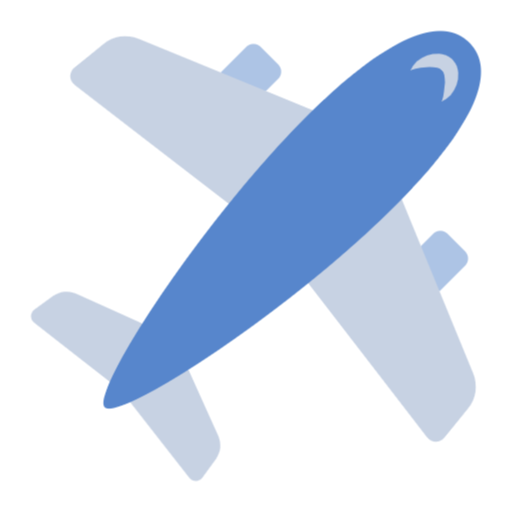
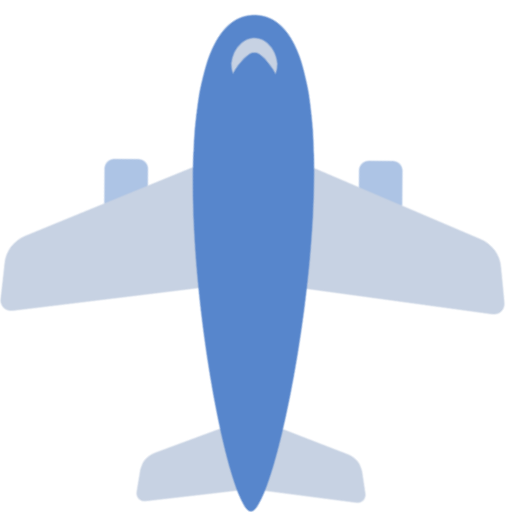
Fixed movement, added rotating right direction
groetjes

diff --git a/cao-frontend/src/App.js b/cao-frontend/src/App.js
@@ -11,14 +11,7 @@ const APIKey =
 class App extends Component {
   constructor(props) {
     super(props);
-  }
 
-  componentWillMount() {
-    this.setState({ MockAirplaneInfo: this.getAirplaneInfo() });
-  }
-
-  componentDidMount() {
-    this.calcMove();
     this.state = {
       viewport: {
         latitude: 38.751569,
@@ -27,11 +20,13 @@ class App extends Component {
         bearing: 0,
         pitch: 0,
       },
-      AirplaneInfo: null,
-      MockAirplaneInfo: null,
       AllMarkers: null,
-      mounted: true,
-    };
+      MockAirplaneInfo: this.getAirplaneInfo()
+    }
+  }
+
+  componentDidMount() {
+    this.calcMove();
     this.movePlanes();
   }
 
@@ -41,40 +36,53 @@ class App extends Component {
   }
 
   calcMove() {
-    this.state.MockAirplaneInfo.map(function (plane) {
-      plane.latToMove =
-        (plane.endLatitude - plane.latitude) / plane.minutesToFly;
-      plane.longToMove =
-        (plane.endLongitude - plane.longitude) / plane.minutesToFly;
+    this.setState({
+      MockAirplaneInfo: this.state.MockAirplaneInfo.map(plane => {
+        const directionLatitude = plane.endLatitude - plane.latitude;
+        const directionLongitude = plane.endLongitude - plane.longitude;
+        const angle = Math.atan2(directionLongitude, directionLatitude) * 180 / Math.PI;
+
+        return {
+          ...plane,
+          latToMove: directionLatitude / plane.minutesToFly,
+          longToMove: directionLongitude / plane.minutesToFly,
+          angle: angle
+        };
+      })
     });
   }
 
   movePlanes() {
-    const interval = setInterval(() => {
-      this.state.MockAirplaneInfo.map(function (plane) {
-        if (plane.minutesToFly > 0) {
-          plane.latitude = plane.latitude + plane.latToMove;
-          plane.longitude = plane.longitude + plane.longToMove;
-          plane.minutesToFly -= 1;
-          console.log(plane.latitude);
-        }
+    setInterval(() => {
+      this.setState({
+        MockAirplaneInfo: this.state.MockAirplaneInfo.map(plane => {
+          if (plane.minutesToFly <= 0) {
+            return plane;
+          }
+          
+          return {
+            ...plane,
+            latitude: plane.latitude + plane.latToMove,
+            longitude: plane.longitude + plane.longToMove,
+            minutesToFly: --plane.minutesToFly
+          };
+        })
       });
-    }, 200);
+    }, 1000);
   }
 
-  rAirplaneMarker = (AirplaneInfo, index) => {
-    console.log(AirplaneInfo);
-    console.log(index);
+  rAirplaneMarker = (plane, index) => {
     return (
       <Marker
         key={`marker-${index}`}
-        longitude={AirplaneInfo.longitude}
-        latitude={AirplaneInfo.latitude}
+        longitude={plane.longitude}
+        latitude={plane.latitude}
         offsetLeft={-20}
         offsetTop={-20}
       >
         <AirplanePin
-          onClick={() => this.setState({ PopUpInfo: AirplaneInfo })}
+          onClick = {() => this.setState({ PopUpInfo: plane })}
+          angle = { plane.angle }
         />
       </Marker>
     );

diff --git a/cao-frontend/src/Components/AirplanePin.js b/cao-frontend/src/Components/AirplanePin.js
@@ -1,3 +1,4 @@
+import { Rotate90DegreesCcw } from "@material-ui/icons";
 import React, { PureComponent } from "react";
 import Airplane from "../Images/Airplane.png";
 
@@ -8,12 +9,15 @@ const pinStyle = {
 
 export default class AirplanePin extends PureComponent {
   render() {
-    const { onClick } = this.props;
+    const { onClick, angle } = this.props;
+    
+
     return (
       <img
         style={{
           ...pinStyle,
           width: "8%",
+          transform: "rotate(" + angle + "deg)"
         }}
         onClick={onClick}
         src={Airplane}
